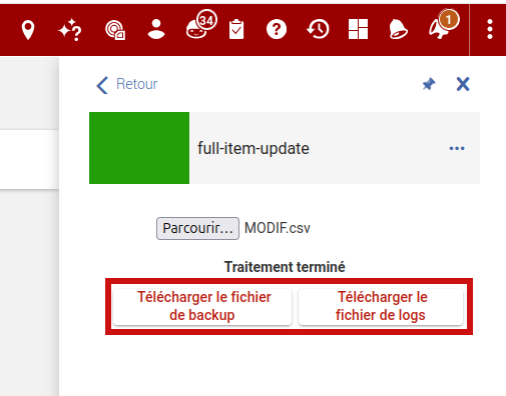
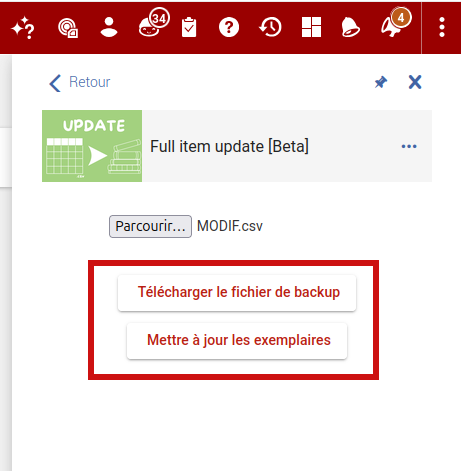
update du guide utilisateur

diff --git a/README/EN User's guide.md b/README/EN User's guide.md
@@ -8,11 +8,11 @@ Full-item-update allows **an Admin user** to update all the fields of a batch of
 
 **The CSV file can contain up to 5,000 lines without the header.**
 
-A malfunction has been observed when using Firefox on Windows while inserting a file. It seems to be the same with other cloud-apps
+A malfunction has been observed when using Firefox on Windows while inserting a file. It seems to be the same with other cloud-apps.
 
 # How does this cloud-app works
 
-## 1. Insert the csv file
+## 1. Insert the CSV file
 
 Click on the "Browse..." button to insert the CSV file.
 
@@ -20,21 +20,33 @@ Click on the "Browse..." button to insert the CSV file.
 
 ## 2. Start the process
 
-If the file is correct, the "Launch" button appears. Otherwise, an error is displayed bellow the "Browse.." button.
+If the file is correct, the "Launch" button appears. Otherwise, an error is displayed below the "Browse..." button.
 
 ![alt text](../assets/second-step.png)
 
-## 3. Loading
+## 3. Generating the backup file
 
-When the process has started, "Loading" appears on the screen. If a blocking error is raised, the process stops and the error message will be displayed on the screen.
+When the process of the first phase has started, "Generating the backup file..." appears below the "Browse..." button. If a blocking error is raised, the process stops and the error message will be displayed on the screen.
 
 ![alt text](../assets/third-step.png)
 
-## 4. The process has ended
+## 4. File generated
 
-When the process ends, two buttons are displayed on the screen.
+When the first phase ends, two buttons appear on the screen.
 
 - "Download backup file" to download the CSV file (.xlsx format) containing the backup data.
-- "Download logs file" to download the error logs file (.txt format).
+- "Update the items" to launch the second phase and update the items.
 
 ![alt text](../assets/fourth-step.png)
+
+## 5. Updating the items
+
+When updating the items, the "Loading" text appears on the screen. Please do not close the tab during the process.
+
+![alt text](../assets/fifth-step.png)
+
+## 6. End of the process
+
+When the process has ended, a button "Download logs file" to download the error logs file (.txt format) appears.
+
+![alt text](../assets/sixth-step.png)

diff --git a/README/FR Guide de l'utilisateur.md b/README/FR Guide de l'utilisateur.md
@@ -24,19 +24,29 @@ Si le fichier est correct, le bouton “Lancer la traitement” apparaît. Sinon
 
 ![alt text](../assets/second-step.png)
 
-## 3. Traitement est en cours
+## 3. Génération du fichier de Backup
 
-Lorsque le traitement est en cours, un texte “En traitement” s'affiche sous le bouton “Parcourir..”. Si une erreur bloquante se déclenche, le traitement sera interrompu et un message d'erreur s'affichera à la place du texte.
+Lorsque la première phase du traitement est en cours, un texte “Génération du fichier de backup” s'affiche sous le bouton “Parcourir..”. Si une erreur bloquante se déclenche, le traitement sera interrompu et un message d'erreur s'affichera à la place du texte.
 
 ![alt text](../assets/third-step.png)
 
-## 4. Traitement est terminé
+## 4. Génération terminée
 
-Lorsque le traitement est fini, deux boutons s'affichent.
+A la fin de la première phase du traitement, deux boutons s'affichent :
 
-Ils permettent de télécharger :
-
-- le fichier contenant les données avant changement (csv au format .xlsx) en cliquant sur “Télécharger le fichier de Backup”.
-- le journal d'erreur (format .txt) en cliquant sur “Télécharger le fichier de logs”.
+- le bouton “Télécharger le fichier de Backup” permettant de télécharger le fichier contenant les données avant changement (csv au format .xlsx).
+- le bouton “Mettre à jour les exemplaires” qui permet de lancer la phase suivante du traitement.
 
 ![alt text](../assets/fourth-step.png)
+
+## 5. Mise à jour des notices
+
+Après le clic sur le bouton “Mettre à jour les exemplaires” l'application va lancer la mise à jour des notices et le texte “en traitement” va apparaître. Veuillez ne pas fermer la fenêtre lors de ce traitement.
+
+![alt text](../assets/fifth-step.png)
+
+## 6. Traitement terminé
+
+Lorsque le traitement est fini, un bouton s'affiche. Il permet de télécharger le journal d'erreur (format .txt)
+
+![alt text](../assets/sixth-step.png)
